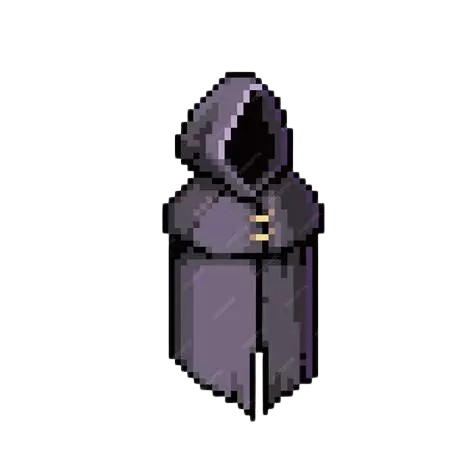
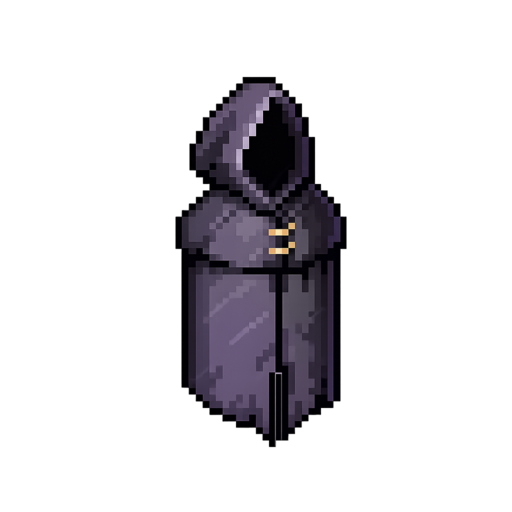
utilisation du sac version beta

Changed region(s): [[0.3249, 0.1477, 0.7089, 0.8861], [0.4726, 0.2363, 0.5021, 0.2954]]

diff --git a/Src/FightScene.py b/Src/FightScene.py
@@ -45,7 +45,7 @@ class FightScene(arcade.View):
         for p in self.pelouse:
             self.trucs_tt_devant_list.append(self.pelouse[p])
 
-        self.player_sprite = arcade.Sprite(os.path.join(os.path.dirname(__file__), "..", "Images", "perso.png"), scale=3)
+        self.player_sprite = arcade.Sprite(os.path.join(os.path.dirname(__file__), "..", "Images", "perso.png"), scale=1)
         self.player_sprite.center_x = 100
         self.player_sprite.center_y = 50
 
@@ -75,7 +75,7 @@ class FightScene(arcade.View):
         self.tour=0
 
         self.ennemies = {}
-        self.nbEnemies = 1
+        self.nbEnemies = 3
         self.AllEnemy = SetUpEnemy(difficulte=self.compteur_maps, nbEnnemi=self.nbEnemies)
 
         self.healthBars = arcade.SpriteList()
@@ -118,35 +118,13 @@ class FightScene(arcade.View):
             self.ennemies[i][1].center_y = 500
             self.listeSprite.append(self.ennemies[i][1])
 
-            healthBar = arcade.SpriteSolidColor(int((self.ennemies[i][0][2]*100)/self.ennemies[i][0][1]), 20, arcade.csscolor.RED)
+            healthBar = arcade.SpriteSolidColor(int((self.ennemies[i][0][2]*100)/self.ennemies[i][0][1]), 20)
             healthBar.center_x = 500 - 200 * i
             healthBar.center_y = 400
             self.healthBars.append(healthBar)
             self.Healths.append(self.ennemies[i][0][2])
             self.bordureVie.append(arcade.shape_list.create_rectangle_filled(500-200*i,400,104,24, arcade.csscolor.BLACK))
             self.batch.append(self.bordureVie[i])
-
-        # UI manager
-        self.manager = arcade.gui.UIManager()
-
-        # Grille pour organiser les boutons
-        self.grid = arcade.gui.UIGridLayout(columns=1, vertical_spacing=0, horizontal_spacing=0)
-
-        # Boutons du menu
-        resume_button = arcade.gui.UIFlatButton(text="Attack", width=200, height=50)
-        self.grid.add(resume_button, col_num=1, row_num=1)
-        anchor = self.manager.add(arcade.gui.UIAnchorLayout())
-        anchor.add(child=self.grid, anchor_x="right", anchor_y="bottom")
-
-        @resume_button.event("on_click")
-        def on_click_resume_button(event):
-            self.manager.disable()
-            Animations.Attaquer(self.plr, self.AllEnemy, "H2F", self.enemySelected)
-            # self.plr,self.AllEnemy,"Branche",0 --> Attaque l'ennemie 0 avec la branche
-            # self.ennemies[0],self.plr,"Branche" --> Attaque le joueur avec l'ennemie 0 avec la branche
-            self.tour=1
-            arcade.schedule(self.SetUpTours, 1/60)
-
 
         self.V = arcade.create_text_sprite("Victoire", arcade.csscolor.RED, 50)
         self.V.center_x = 300
@@ -156,12 +134,14 @@ class FightScene(arcade.View):
 
         # Cartable
         self.SacGraphique=arcade.SpriteList()
-        # Images
-        self.BrancheImage=arcade.Sprite(os.path.join(os.path.dirname(__file__), "..", "Images", "banane.png"), scale=0.25)
+        self.SacItems=arcade.SpriteList()
+        self.clicked=False
 
         # Forme du sac
         self.SacStorage=[[0 for i in range(3)] for i in range(2)]
-        self.SacStorage[0][2]=1
+        self.SacStorage[0][0]=3
+        self.SacStorage[1][1]=3
+        self.SacStorage[0][2]=3
         for h in range(len(self.SacStorage)):
             for l in range(len(self.SacStorage[0])):
                 case=arcade.Sprite(os.path.join(os.path.dirname(__file__), "..", "Images", "fond_sac.png"), scale=0.227)
@@ -169,18 +149,31 @@ class FightScene(arcade.View):
                 case.center_y=100+100*h
                 self.SacGraphique.append(case)
                 if self.SacStorage[h][l]==1:
-                    self.BrancheImage.center_x=300+100*l
-                    self.BrancheImage.center_y=200+100*h
-                    self.SacGraphique.append(self.BrancheImage)
+                    BrancheImage=arcade.Sprite(os.path.join(os.path.dirname(__file__), "..", "Images", "branche.png"), scale=0.5)
+                    BrancheImage.center_x=297+100*l
+                    BrancheImage.center_y=105+100*h
+                    BrancheImage.name="branche"
+                    self.SacItems.append(BrancheImage)
+                elif self.SacStorage[h][l]==2:
+                    BananeImage=arcade.Sprite(os.path.join(os.path.dirname(__file__), "..", "Images", "banane.png"), scale=0.25)
+                    BananeImage.center_x=300+100*l
+                    BananeImage.center_y=100+100*h
+                    BananeImage.name="banane"
+                    self.SacItems.append(BananeImage)
+                elif self.SacStorage[h][l]==3:
+                    H2FImage=arcade.Sprite(os.path.join(os.path.dirname(__file__), "..", "Images", "H2F.png"), scale=0.25)
+                    H2FImage.center_x=300+100*l
+                    H2FImage.center_y=150
+                    H2FImage.name="H2F"
+                    self.SacItems.append(H2FImage)
+
 
 
     def on_show_view(self):
         arcade.set_background_color(arcade.csscolor.BLANCHED_ALMOND)
-        self.manager.enable()
 
     def on_hide_view(self):
         self.fight_music.stop(self.sonjoue)
-        self.manager.disable()
 
     def on_update(self, delta_time):
         self.listeSprite.update()
@@ -194,14 +187,12 @@ class FightScene(arcade.View):
             self.Target.alpha = 0
 
         if self.victory:
-            self.manager.disable()
             self.victory_timer += delta_time
             if self.victory_timer >= 1:
                 from Map import Map
                 self.window.show_view(Map(self.plr[0],self.compteur_maps,self.Cleared_Levels))
 
         if self.plr[0].vie == 0:
-            self.manager.disable()
             self.victory_timer += delta_time
             if self.victory_timer >= 1:
                 from Spawn import Spawn
@@ -243,11 +234,11 @@ class FightScene(arcade.View):
         if self.victory:
             self.text_list.draw()
         elif self.tour == 0:
-            self.manager.draw()
             self.SacGraphique.draw()
+            self.SacItems.draw()
 
     def on_mouse_press(self, x, y, button, modifier):
-        if button == 1:
+        if button == 1 and self.clicked==False:
             if x > 410 and x < 600 and y > 410 and y < 600 and self.enemySelected != 0:
                 self.enemySelected = 0
                 self.Target.center_x = 500
@@ -260,6 +251,15 @@ class FightScene(arcade.View):
                 self.enemySelected = 2
                 self.Target.center_x = 500 - 200 * 2
                 self.Target.scale=.7,.7
+            
+            ItemClicked=arcade.get_sprites_at_point((x,y),self.SacItems)
+            if ItemClicked!=[]:
+                self.clicked=True
+                Animations.Attaquer(self.plr, self.AllEnemy, ItemClicked[0].name, self.enemySelected)
+                # self.plr,self.AllEnemy,"Branche",0 --> Attaque l'ennemie 0 avec la branche
+                # self.ennemies[0],self.plr,"Branche" --> Attaque le joueur avec l'ennemie 0 avec la branche
+                self.tour=1
+                arcade.schedule(self.SetUpTours, 1/60)
 
     def SetUpTours(self,delta_time):
         self.decalage = 0
@@ -274,13 +274,13 @@ class FightScene(arcade.View):
         if self.tour>self.EnnemieEnVie:
             arcade.unschedule(self.enemyTour)
             self.tour = 0
-            self.manager.enable()
+            self.clicked=False
         else:
             for i in range(self.nbEnemies):
                 if self.Healths[self.tour-1+self.decalage]==0:
                     self.decalage+=1
             if self.Healths[self.tour-1+self.decalage]!=0:
-                Animations.Attaquer(self.ennemies[self.tour-1+self.decalage],self.plr,"Branche")
+                Animations.Attaquer(self.ennemies[self.tour-1+self.decalage],self.plr,"branche")
             self.tour+=1
 
 if __name__ == "__main__":

diff --git a/Src/Animations.py b/Src/Animations.py
@@ -12,7 +12,7 @@ arme = None
 
 def UseWeapon():
     if isPlayer == True:
-        if arme == "Branche":
+        if arme == "branche":
             Weapons.branche(numero,Target,userStats.GetPlayerStats()[2])
         elif arme == "H2F":
             Weapons.H2F(numero,Target,userStats.GetPlayerStats()[2])
@@ -23,7 +23,7 @@ def UseWeapon():
         elif arme == "toile":
             Weapons.toile(numero,Target,userStats.GetPlayerStats()[2])
     else:
-        if arme == "Branche":
+        if arme == "branche":
             Weapons.branche("player",Target[0],userStats[3])
         elif arme == "H2F":
             Weapons.H2F("player",Target[0],userStats[3])

diff --git a/Src/ShopView.py b/Src/ShopView.py
@@ -45,7 +45,6 @@ class ShopView(arcade.View):
         @self.buy_button.event("on_click")
         def on_click_buy_buttun(event):
             self.buy_button.text = str(self.prix_vie)
-            print(self.buy_button.text)
             if self.prix_vie<=GetArgent():
                 AddLife(50)
                 AddArgent(-int(self.prix_vie))